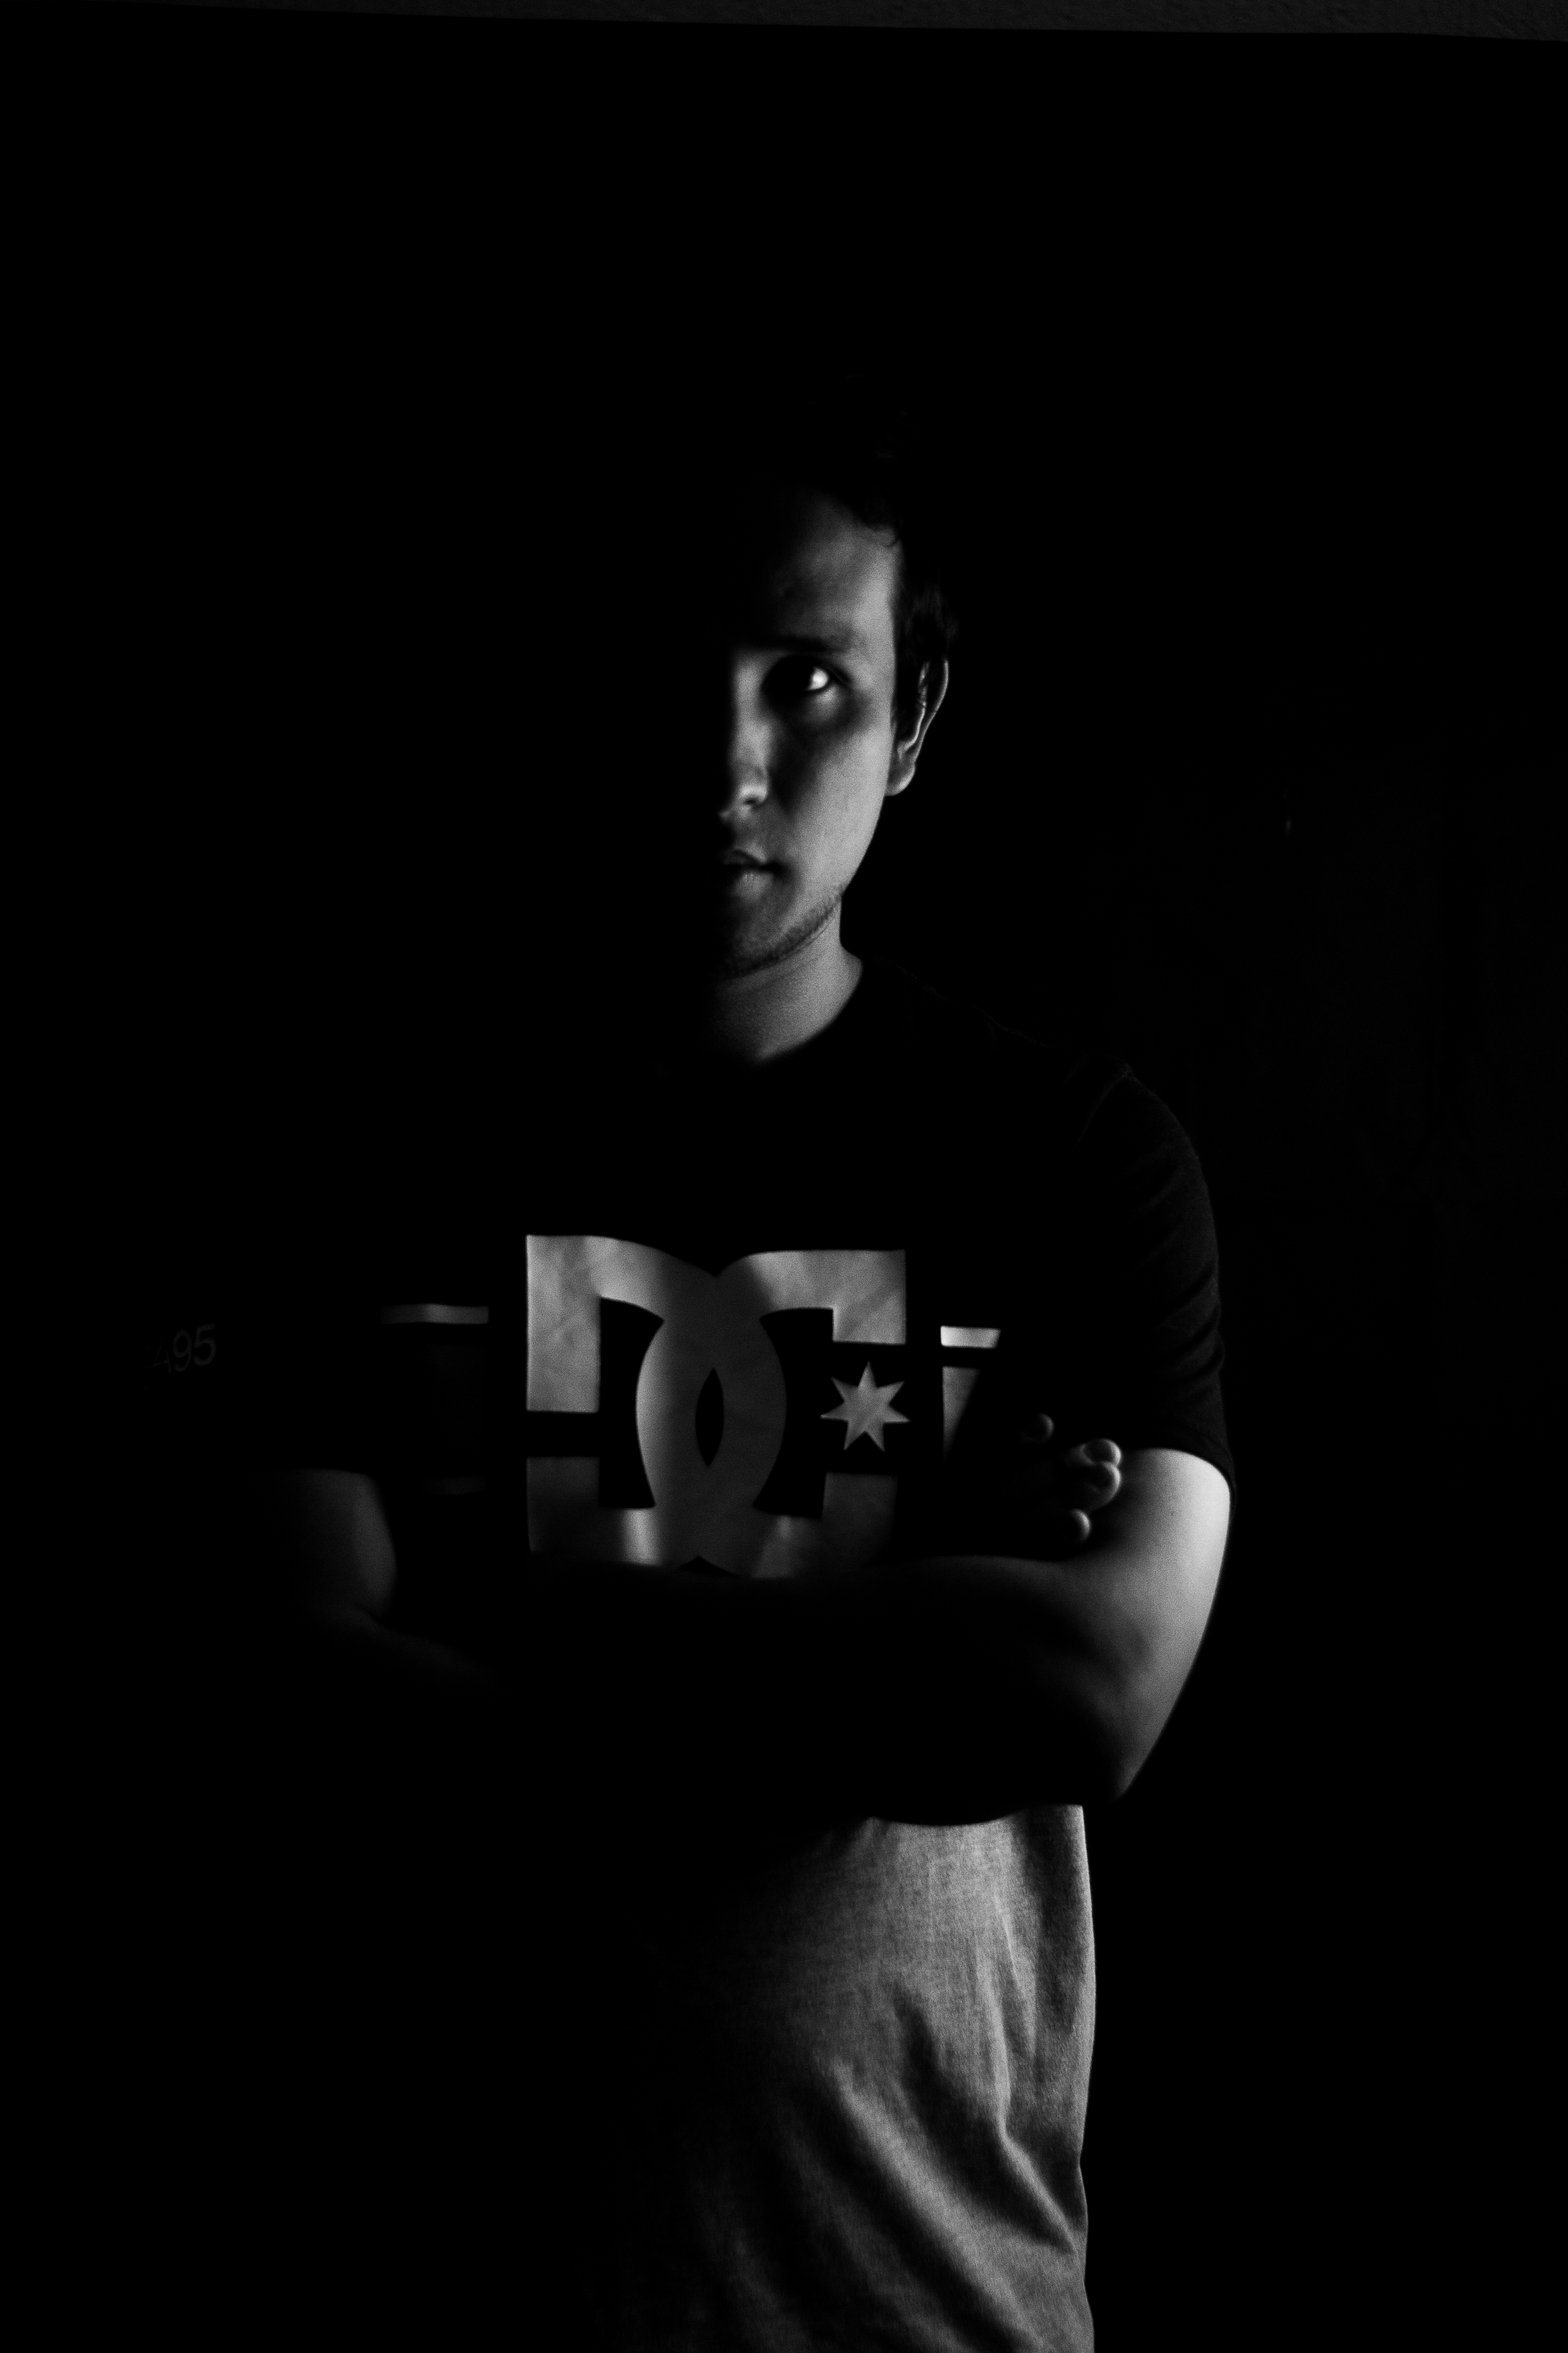
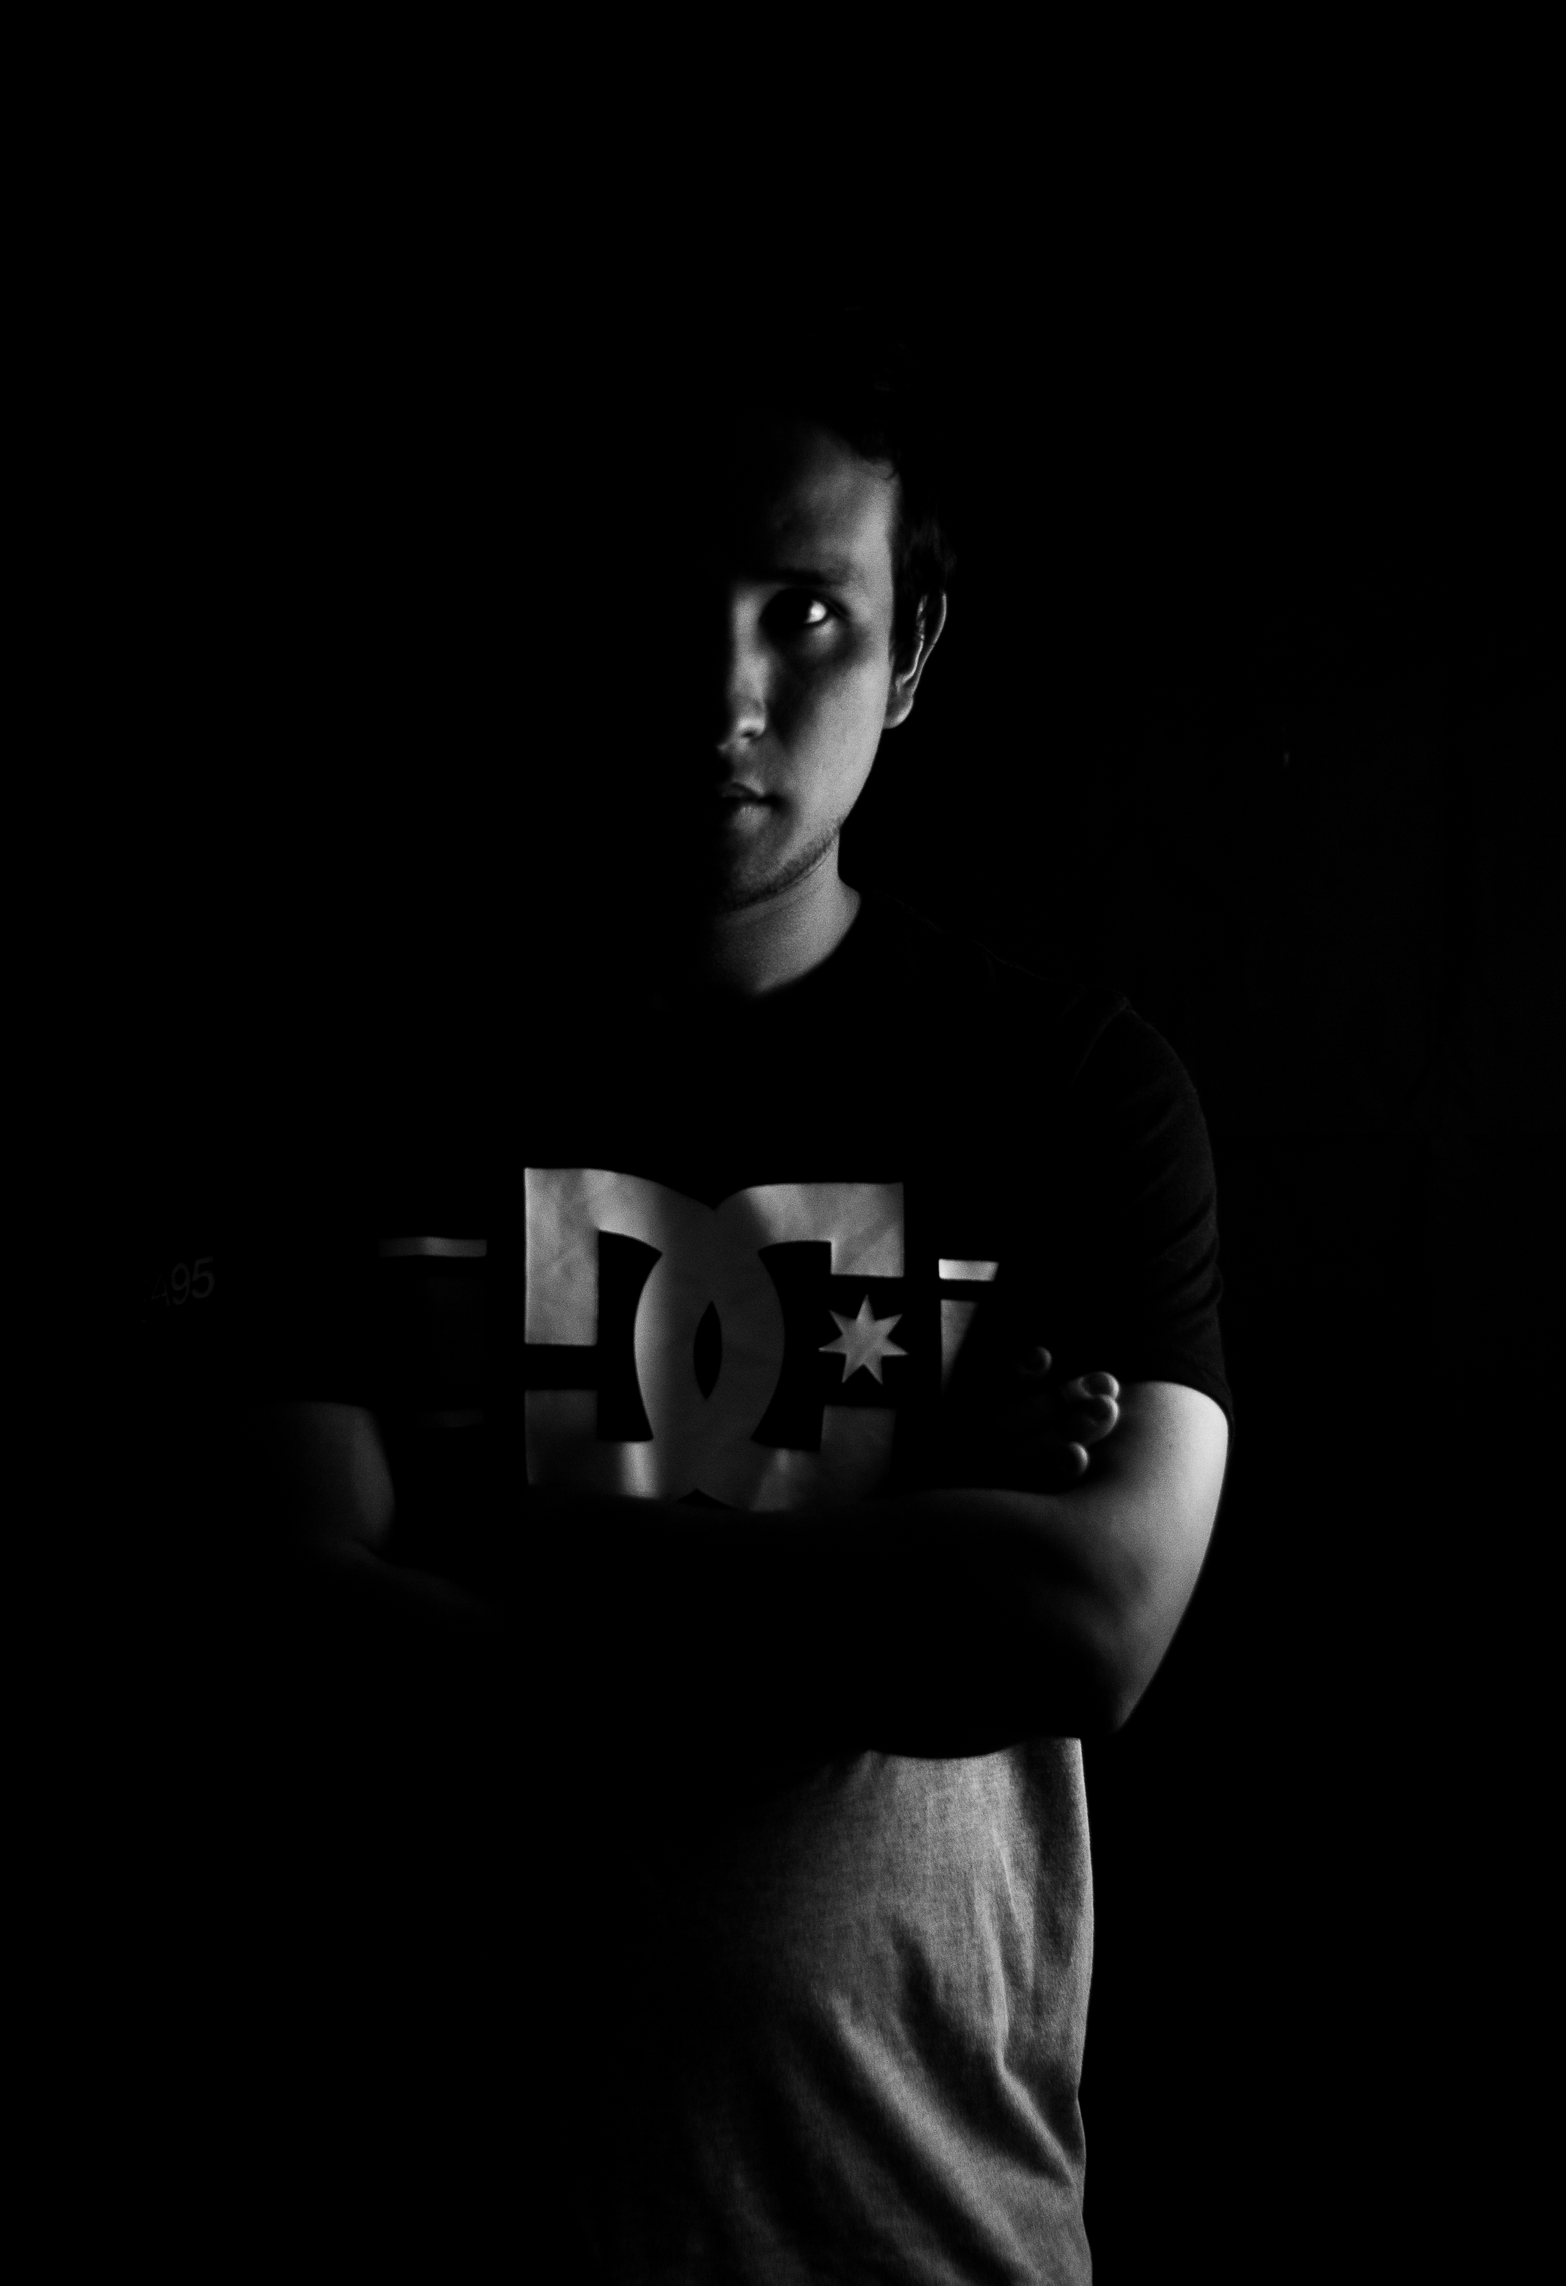
fix home page

diff --git a/app/templates/index.html b/app/templates/index.html
@@ -1,13 +1,20 @@
 {% extends "base.html" %}
 
 {% block content %}
-  <div>
-    <picture>
-      <img src="{{ url_for('static', filename='images/index/ivan.jpg') }}" class="mx-auto d-block img-fluid">
+  <div style="background-color: black" class="rounded">
+    <div class="rounded text-center text-white" style="background-color: black">
+      <h1 class="mt-3">OSCAR DE LA CRUZ</h1>
+      <h2 class="mt-4">ELECTRONICS ENGINEER <span style="color: darkcyan">|</span> DATA SCIENTIST <span
+        style="color: darkcyan">|</span> MUSICIAN</h2>
+      <p class="mb-0 pb-0">
+        <a class="btn btn-primary rounded-4 button-color" href="{{ url_for('.projects') }}">PROJECTS</a>
+      </p>
+    </div>
+    <picture class="mt-0 pt-0">
+      <img src="{{ url_for('static', filename='images/index/ivan.jpg') }}" class="rounded img-fluid">
     </picture>
 
   </div>
-
 
 {% endblock %}
 
